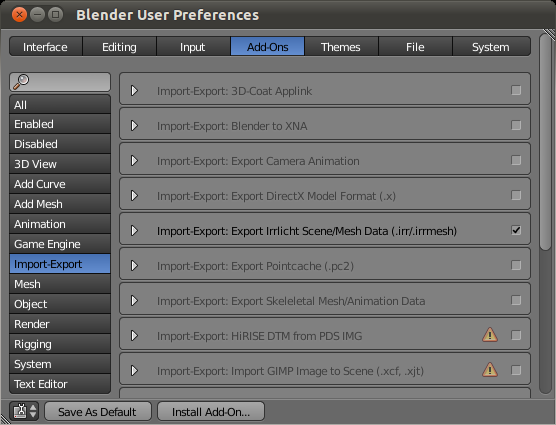
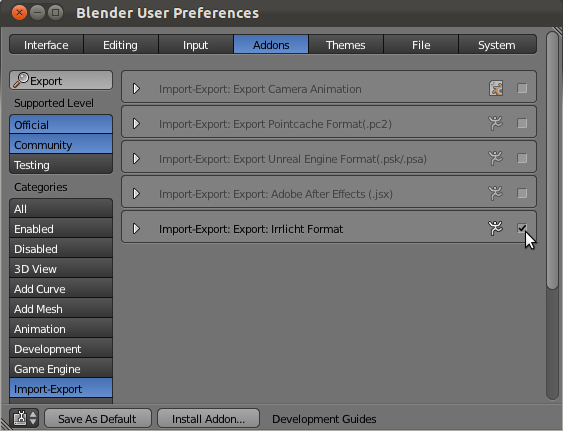
irrB - Added node visibility option. Doc updates.

Changed region(s): [[0.0, 0.0, 1.0, 1.0], [0.9784, 0.0, 1.0, 0.0306]]

diff --git a/tools/irrb/doc/_templates/index.html b/tools/irrb/doc/_templates/index.html
@@ -93,19 +93,9 @@
     </table>
 </div>
 
-<p>
-    You may also download a
-    <a href="http://tubras.googlecode.com/files/irrBdoc-0.6.pdf">PDF version</a>
-    of this documentation.
-</p>
-
 <h2>Tutorials</h2>
-<p>Links to <b>irrB</b> tutorials can be found on the
+<p>Links to <b>irrB</b> tutorials are located in the 
     <a href="{{ pathto("tutorials") }}" target="_blank">irrB Tutorials</a> overview page.
-</p>
-
-<p>
-    Individual Tutorial Links.
 </p>
 
 <h2>Get irrB</h2>
@@ -115,6 +105,8 @@
     page.
 </p>
 <p>You can view the <b>irrB</b> Python source code in the Subversion repository located at
-    <tt>http://tubras.googlecode.com/svn/trunk/tools/irrb/io_export_irrlicht.py</tt>.
+    <a href=http://tubras.googlecode.com/svn/trunk/tools/irrb/io_export_irrlicht.py>
+    http://tubras.googlecode.com/svn/trunk/tools/irrb/io_export_irrlicht.py
+    </a>.
 </p>
 {% endblock %}

diff --git a/tools/irrb/io_export_irrlicht.py b/tools/irrb/io_export_irrlicht.py
@@ -7,7 +7,7 @@
 # Additional Unlicense information may be found at http://unlicense.org.
 #=============================================================================
 bl_info = {
-    'name': 'Irrlicht format',
+    'name': 'Export: Irrlicht Format',
     'description': 'Export Irrlicht Scene/Mesh Data (.irr/.irrmesh)',
     'author': 'Keith Murray (pc0de)',
     'version': (0, 6),
@@ -1579,6 +1579,10 @@ def _registerIrrbProperties():
         description='Export object to scene', default=True,
         options=emptySet)
 
+    bpy.types.Object.irrb_node_visible = BoolProperty(name='Visible',
+        description='Initial visibility of the object', default=True,
+        options=emptySet)
+
     bpy.types.Object.irrb_node_id = IntProperty(name='Node ID',
         description='Object scene node id', default=-1,
         options=emptySet)
@@ -2741,7 +2745,7 @@ class iScene:
 
         self._iwrite(file, 'int', 'Id', bObject.irrb_node_id, i2)
 
-        self._iwrite(file, 'bool', 'Visible', 1, i2)
+        self._iwrite(file, 'bool', 'Visible', bObject.irrb_node_visible, i2)
         
         file.write(i2 + '<vector3d name="Position" ' \
             'value="{}"/>\n'.format(spos))
@@ -4490,9 +4494,10 @@ class iExporter:
                 if bObject.layers[i]]
             ccount = _getConstraintCount(bObject)
             debug('Object ({}): ' \
-                'Name={}, Type={}, Export={}, Layers={}, NodeAnim={}, ' \
+                'Name={}, Type={}, Export={}, Visible={}, Layers={}, NodeAnim={}, ' \
                 'Constraints={}'.format(idx,
                 bObject.name, bObject.type, bObject.irrb_node_export,
+                bObject.irrb_node_visible,
                 str(olayers), _hasNodeAnimations(bObject), ccount))
             if ccount > 0:
                 ccount = 1
@@ -5951,6 +5956,14 @@ class IrrbObjectProps(bpy.types.Panel):
 
         if not obj.irrb_node_export:
             return
+
+        split = layout.split()
+        lcol = split.column()
+        sub = lcol.column()
+        sub.label(text='Visible')
+        rcol = split.column()
+        sub = rcol.column()
+        sub.prop(obj, 'irrb_node_visible', text='')
 
         row = layout.row()
         row.label(text='ID')

diff --git a/tools/irrb/doc/outgen.rst b/tools/irrb/doc/outgen.rst
@@ -15,16 +15,16 @@ remain intact.
 **irrB** allows you to choose a single Output Directory.  Depending on whether 
 or not you choose to export a scene file, **irrB** behaves as follows:
 
-	**Create Scene File** - Not Selected.  All mesh files (.irrmesh) and packed 
-	images are saved to the Output Directory location.
-	
-	**Create Scene File** - Selected.  All mesh files (.irrmesh) are saved to 
+	Create Scene File **Enabled** - All mesh files (.irrmesh) are saved to 
 	a sub-directory named **mdl** (model) underneath the Output Directory location.  
 	All packed textures are saved to a sub-directory named **tex** underneath the 
 	Output Directory location.
+	
+	Create Scene File **Disabled** All mesh files (.irrmesh) and packed 
+	images are saved to the Output Directory location.	
 
 Given:
-	1. You are exporting a singe scene named "test".
+	1. You are exporting a single scene named "test".
 	
 	2. The scene contains a single cube named "Cube", and a packed texture named "checkers.png".
 	
@@ -32,9 +32,9 @@ Given:
 
 The following will be generated:
 
-	* c:/scenes/test.irr		// scene file
-	* c:/scenes/mdl/Cube.irrmesh	// Cube mesh 
-	* c:/scenes/tex/checkers.png	// checkers texture
+	* c:\\scenes\\test.irr		// scene file
+	* c:\\scenes\\mdl\\Cube.irrmesh	// Cube mesh 
+	* c:\\scenes\\tex\\checkers.png	// checkers texture
 
 All mesh and texture references will be relative to the "Out Directory".  
 In the example above, the test.irr scene file will reference the Cube mesh as "mdl/Cube.irrmesh"::
@@ -72,15 +72,20 @@ to the Cube UV map, the Cube.irrmesh texture reference would then look like::
 The original image ("c:\\myimages\\patterns\\bricks.png") is copied to the 
 texture directory underneath the output directory: "{out directory}/tex/bricks.png".
 
-Images that have the same name but are stored in different directories, are 
-written to the texture directory using Blender's internally assigned file name.
+Images that have the same name but are stored in different directories are 
+written to the texture directory using Blender's internally assigned file name. This
+will prevent images with the same name from being overwritten.
 
 ----
 
 Packed Output
 =============
-**irrB** contains an option named "Pack Files" located in the export panel. When 
+**irrB** contains an export option named "Pack Files" located in the export panel. When 
 selected, **irrB** exports/writes all of the scene, model, and texture files
 following the rules outlined above.  After all of the files have been written
 and image files copied, **irrB** then packs (zip) all of the files into a 
-single file and names the file "{scene name}.zip". 
+single file and names the file "{scene name}.zip".  
+
+After the files have been packed, **irrB** then deletes the original files that 
+were written to the output directory.
+ 

diff --git a/tools/irrb/doc/object_panel.rst b/tools/irrb/doc/object_panel.rst
@@ -50,23 +50,31 @@ Custom Scene Node Properties
 Blender allows you to attach "custom" integer, string, bool, and/or float 
 properties to any Blender object.  When **irrB** detects that an object contains 
 custom Blender properties, those properties are then exported into the 
-corresponding scene nodes "user attributes". 
+corresponding scene nodes "user data" section. 
 
 This is useful for adding custom data that has meaning specific to your 
 application. For example, "spawn points":
 
-* Add a Blender "empty" object to a scene.
-* Add a custom boolean object property to the empty object named "spawn" 
-  and set it to "True".
-* Your application code could then include code that looks for scene nodes
-  with an attribute named "spawn" that was set to "True" and act
-  accordingly.
+	* Add a Blender "empty" object to a scene.
+	
+	* Add a custom boolean object property to the empty object named "spawn" 
+	  and set it to "True".
+	  
+	* Your application code could then include code that looks for scene nodes
+	  with an attribute named "spawn" that was set to "True" and act accordingly.
+  
+Additional information on adding custom properties may be found in the section
+named :doc:`Custom Properties </custom>`
 
 Common Options
 ==============
 
-**Export Object** - Indicator used to control whether or not a object is
+**Export Object** - Indicator used to control whether or not an object is
 exported.
+
+**Visible** - Indicator used to control whether or not an object is initially
+visible.  If un-checked, the object is still exported but won't be visible in 
+the scene until it is programatically set to be visible.
 
 **ID** - An arbitrary integer that may be used by your application to
 locate a specific scene node or group of scene nodes.

diff --git a/tools/irrb/doc/billboard.rst b/tools/irrb/doc/billboard.rst
@@ -15,11 +15,11 @@ Creating a Billboard in Blender that will be exported as an Irrlicht Billboard s
 
 	**1.** Add a plane mesh to your scene at the position you would like the billboard to appear. The scale and rotation are ignored by **irrB**.
 	
-	**2.** Create an UV map for the plane and assign it an image using Blender's UV/Image Editor. 
+	**2.** Create a UV map for the plane and assign it an image using Blender's UV/Image Editor. 
 	The actual UV coordinates are ignored by **irrB**, but you must assigned an image to the UV map. 
 	
 	**3.** Set the irrB Object Type to "Billboard" in the **irrB** object sub-panel.  Once the object
-	type is set to "Billboard", you then define the width, height, vertex (shade) colors.
+	type is set to "Billboard", you may then define the width, height, and vertex (shade) colors.
 
 ----
 	
@@ -34,5 +34,5 @@ If the image you assigned to the billboard in the UV/Image Editor is transparent
 and you would like the billboard to be transparent as well, simply create a
 new Blender material and assign it to the billboard plane mesh. 
 
-In the **irrB** material properties sub-panel, assign the material type to 
+In the **irrB** material properties sub-panel, set the material type to 
 either "trans_alphach" or "trans_alphach_ref" depending on your requirements. 

diff --git a/tools/irrb/doc/install.rst b/tools/irrb/doc/install.rst
@@ -18,18 +18,16 @@ The current version may be downloaded from here: http://tubras.googlecode.com/fi
 The contents of the zip package are: 
 
 * io_export_irrlicht.py
-* docs/changes.txt
-* docs/license.html
-* docs/UserGuide.pdf
+* docs/{html documentation files}
 
 To install **irrB**, unzip the contents of the zip file into a temporary directory 
 and install it as a Blender **addon**.
 
 1. Start Blender and call up the **User Preferences** dialog (File | User Preferences..).  
-2. Click on the **Add-Ons** tab and then the **Install Add-On...** button located at 
+2. Click on the **Addons** tab and then the **Install Addon...** button located at 
    the bottom of the dialog.
 3. Navigate to the directory where you previously unzipped the **irrB** zip file into, select 
-   the file **io_export_irrlicht.py**, and then click the **Install Add-On...** button. 
+   the file **io_export_irrlicht.py**, and then click the **Install Addon...** button. 
 4. Locate the **irrB** exporter in the **Import-Export** section and enable it by selecting 
    the corresponding check box. 
 

diff --git a/tools/irrb/doc/start.rst b/tools/irrb/doc/start.rst
@@ -14,7 +14,12 @@ Getting Started
   written to the Irrlicht scene file. 
 
 Before you start using **irrB** you should at the very least have a
-fundamental understanding of how to use Blender.
+fundamental understanding of how to use Blender. Some good resources and tutorials
+for learning Blender include:
+
+	* `Blender Art Magazine <http://blenderart.org>`_
+	* `Blender Cookie <http://cgcookie.com/blender>`_
+	* `Blender Tutorials <http://www.blender.org/education-help/tutorials>`_
 
 In order to better understand how **irrB** works with Blender, it will help
 you to know the relationship between Blenders "Objects" and "Object Data". 

diff --git a/tools/irrb/doc/fog.rst b/tools/irrb/doc/fog.rst
@@ -33,4 +33,11 @@ Irrlicht Fog settings as follows:
 
 In addition to the "global" fog settings, fog may also be enabled/disabled at 
 the material level. If global fog (mist) is enabled and a material's fog setting
-is disabled, that particular material will not be rendered with fog.
+is disabled, then that particular material will not be rendered with fog.
+
+.. container:: irrb-left
+
+	.. figure:: _static/img029.png
+
+		Sample Fog .blend file - `08-Fog.blend <http://tubras.googlecode.com/svn/trunk/tools/blendfiles/26/08-Fog.blend>`_
+

diff --git a/tools/irrb/doc/skyboxdome.rst b/tools/irrb/doc/skyboxdome.rst
@@ -62,3 +62,10 @@ for the sky dome.
 	The sky dome material should have "Fog" disabled in the **irrB** sub-panel 
 	to prevent the image from being affected by fog.  If sky dome image appears
 	as a solid color, the materials "Fog" setting is likely enabled.
+
+.. container:: irrb-left
+
+	.. figure:: _static/img028.png
+
+		Sample Skybox/dome .blend file - `03-SkyBoxDome.blend <http://tubras.googlecode.com/svn/trunk/tools/blendfiles/26/03-SkyBoxDome.blend>`_
+

diff --git a/tools/irrb/doc/camlight.rst b/tools/irrb/doc/camlight.rst
@@ -7,8 +7,8 @@ Cameras and Lights
    :maxdepth: 2
 
 **irrB** allows camera and light node data to be exported to scene files. Camera
-and light data is only exported when the corresponding is selected in **irrB**'s
-export sub-panel.
+and light data is only exported when the corresponding option is selected in 
+**irrB**'s export sub-panel.
 
 Irrlicht camera and light specific properties may be set in **irrB**'s object
 sub-panel.  
